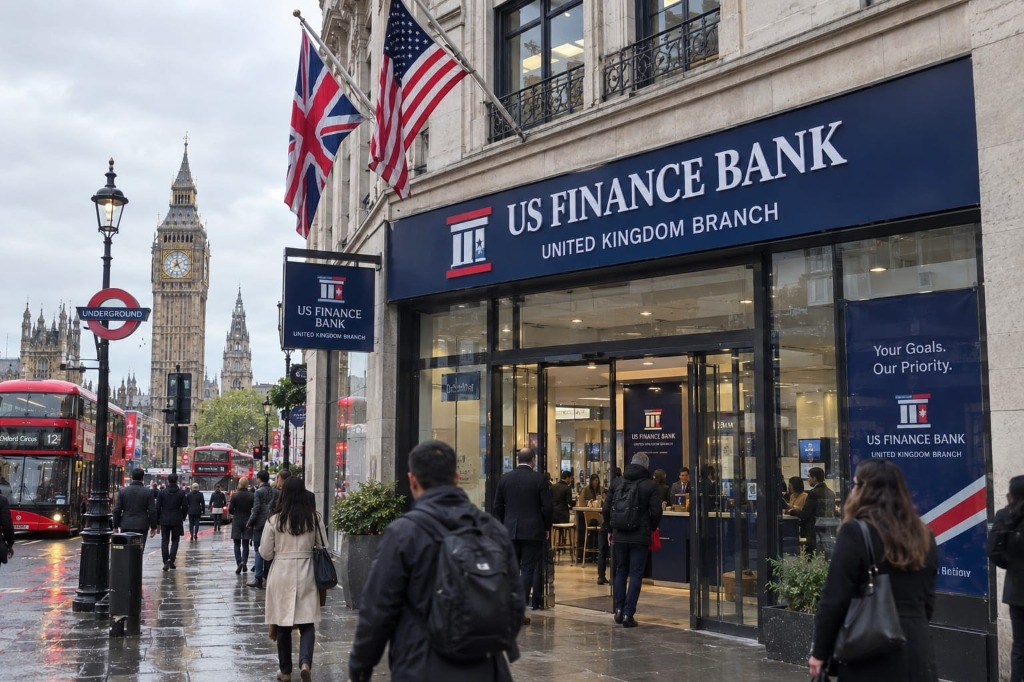
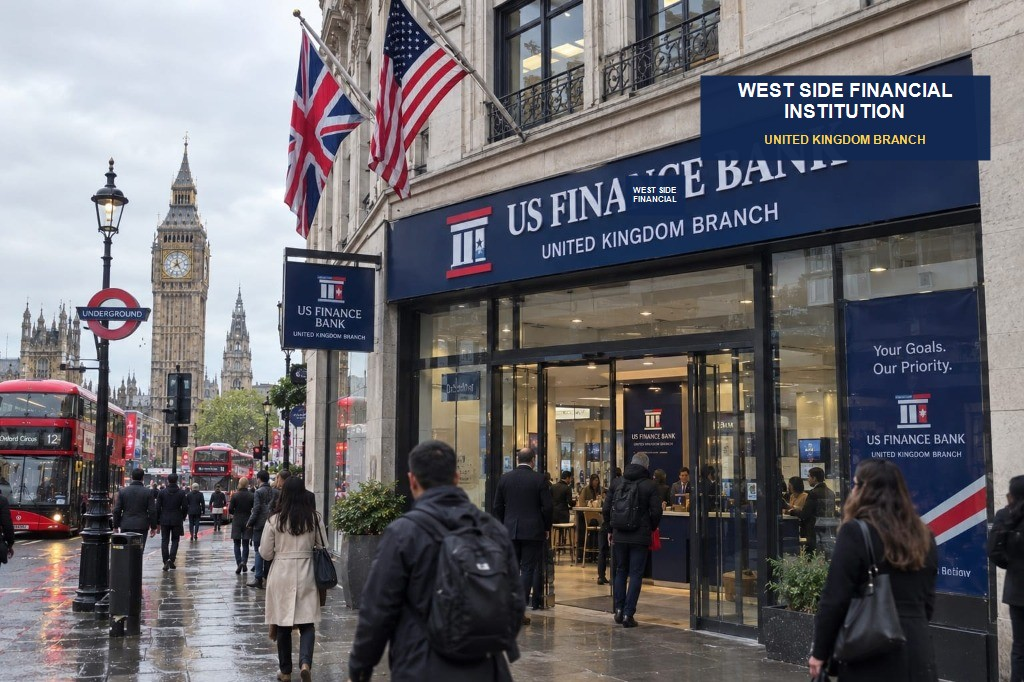
feat: rebrand all home page branch and digital gallery pictures and bank name to West Side Financial Institution

Changed region(s): [[0.6562, 0.0924, 0.9688, 0.2463], [0.5938, 0.2463, 0.6875, 0.3079]]

diff --git a/src/routes/index.tsx b/src/routes/index.tsx
@@ -132,13 +132,13 @@ class AdminDashboardErrorBoundary extends React.Component<
 export const Route = createFileRoute("/")({
   head: () => ({
     meta: [
-      { title: "West Side Bank | Online Banking" },
+      { title: "West Side Financial Institution | Online Banking" },
       {
         name: "description",
         content:
-          "Welcome to West Side Bank. Modern, secure, multilingual digital banking serving global clients with local currency, ID verification, and 24/7 account protection.",
+          "Welcome to West Side Financial Institution. Modern, secure, multilingual digital banking serving global clients with local currency, ID verification, and 24/7 account protection.",
       },
-      { property: "og:title", content: "West Side Bank | Online Banking" },
+      { property: "og:title", content: "West Side Financial Institution | Online Banking" },
       {
         property: "og:description",
         content: "Banking Made Simpler. Your Future, Your Finance.",
@@ -2294,7 +2294,7 @@ export function Index({ view = "home" }: { view?: "home" | "account" } = {}) {
           <div className="flex items-center gap-3">
             <span className="flex items-center gap-1.5 font-bold tracking-wide">
               <ShieldCheck className="h-4 w-4 text-accent shrink-0" />
-              West Side Bank • Global Digital Portal
+              West Side Financial Institution • Global Digital Portal
             </span>
             <span className="hidden text-white/30 sm:inline">|</span>
             <span className="hidden text-white/80 md:inline items-center gap-1.5">
@@ -2482,7 +2482,7 @@ export function Index({ view = "home" }: { view?: "home" | "account" } = {}) {
           <a
             href="#top"
             className="group flex min-w-0 items-center gap-3 rounded focus-visible:outline-2 focus-visible:outline-ring"
-            aria-label="West Side Bank, Online Banking home"
+            aria-label="West Side Financial Institution, Online Banking home"
           >
             <div className="relative flex h-11 w-11 shrink-0 items-center justify-center rounded-lg bg-primary text-primary-foreground shadow-sm ring-2 ring-primary/20 transition-transform group-hover:scale-105">
               <Landmark className="h-6 w-6 text-white" />
@@ -2493,7 +2493,7 @@ export function Index({ view = "home" }: { view?: "home" | "account" } = {}) {
             </div>
             <div className="min-w-0 leading-tight">
               <span className="block text-base font-extrabold tracking-tight text-primary sm:text-lg">
-                WEST SIDE BANK
+                WEST SIDE FINANCIAL INSTITUTION
               </span>
               <span className="block text-xs font-semibold uppercase tracking-wider text-accent sm:text-[0.72rem]">
                 {t.tagline}
@@ -4094,7 +4094,7 @@ export function Index({ view = "home" }: { view?: "home" | "account" } = {}) {
           aria-labelledby="hero-heading"
           className="relative isolate overflow-hidden bg-navy-deep text-primary-foreground min-h-[640px] flex items-center"
         >
-          {/* USER'S EXACT WEST SIDE BANK HEADQUARTERS PHOTOGRAPH */}
+          {/* USER'S EXACT WEST SIDE FINANCIAL INSTITUTION HEADQUARTERS PHOTOGRAPH */}
           <img
             src={usFinanceBuildingHero}
             alt="West Side Financial Institution Modern Headquarters Tower"
@@ -4335,7 +4335,7 @@ export function Index({ view = "home" }: { view?: "home" | "account" } = {}) {
             </div>
 
             <div className="mt-6 rounded-lg bg-secondary/50 p-3 text-[0.7rem] text-muted-foreground leading-relaxed">
-              <strong>Compliance Notice:</strong> This country list represents West Side Bank's intended service coverage. All country-specific identity, tax, and AML requirements are configurable and must be verified by local qualified legal and regulatory professionals prior to commercial onboarding.
+              <strong>Compliance Notice:</strong> This country list represents West Side Financial Institution's intended service coverage. All country-specific identity, tax, and AML requirements are configurable and must be verified by local qualified legal and regulatory professionals prior to commercial onboarding.
             </div>
           </div>
         </section>
@@ -4600,11 +4600,11 @@ export function Index({ view = "home" }: { view?: "home" | "account" } = {}) {
                 id="about-heading"
                 className="mt-2 font-display text-3xl font-bold text-primary sm:text-4xl"
               >
-                About West Side Bank
+                About West Side Financial Institution
               </h2>
               <div className="mx-auto my-4 h-1 w-16 bg-accent" />
               <p className="text-base leading-relaxed text-muted-foreground">
-                West Side Bank is committed to delivering accessible, transparent, and
+                West Side Financial Institution is committed to delivering accessible, transparent, and
                 trustworthy banking services across the United States and international markets.
                 We blend cutting-edge digital convenience with steadfast financial security.
               </p>
@@ -4657,7 +4657,7 @@ export function Index({ view = "home" }: { view?: "home" | "account" } = {}) {
                   id="contact-heading"
                   className="mt-2 font-display text-3xl font-bold text-primary sm:text-4xl"
                 >
-                  Contact West Side Bank
+                  Contact West Side Financial Institution
                 </h2>
                 <p className="mt-3 leading-relaxed text-muted-foreground">
                   Have questions about opening an account, regional verification, or digital
@@ -4726,7 +4726,7 @@ export function Index({ view = "home" }: { view?: "home" | "account" } = {}) {
                     Security Notice
                   </p>
                   <p className="mt-1 leading-relaxed">
-                    West Side Bank officials will never ask for your password, PIN, or one-time
+                    West Side Financial Institution officials will never ask for your password, PIN, or one-time
                     verification codes via unsolicited email or phone.
                   </p>
                 </div>
@@ -4746,7 +4746,7 @@ export function Index({ view = "home" }: { view?: "home" | "account" } = {}) {
                       Message Dispatched
                     </h4>
                     <p className="mt-2 text-xs leading-relaxed text-emerald-800">
-                      Thank you for contacting West Side Bank. Your message has been routed to{" "}
+                      Thank you for contacting West Side Financial Institution. Your message has been routed to{" "}
                       <strong>westsidebankassistance@westsidebank.online</strong> (Hotline: +1-567-US) with ticket #
                       {Math.floor(100000 + Math.random() * 900000)}.
                     </p>
@@ -4844,7 +4844,7 @@ export function Index({ view = "home" }: { view?: "home" | "account" } = {}) {
               <div>
                 <div className="flex items-center gap-2">
                   <Landmark className="h-6 w-6 text-accent" />
-                  <span className="font-display font-bold text-lg text-white">WEST SIDE BANK</span>
+                  <span className="font-display font-bold text-lg text-white">WEST SIDE FINANCIAL INSTITUTION</span>
                 </div>
                 <p className="mt-3 text-xs leading-relaxed text-white/70">
                   Stronger Together for a Brighter Future. Modern digital banking with multilingual
@@ -4950,13 +4950,13 @@ export function Index({ view = "home" }: { view?: "home" | "account" } = {}) {
 
             <div className="mt-10 border-t border-white/10 pt-6 text-xs text-white/60">
               <p className="leading-relaxed">
-                Official West Side Bank portal. Contact: westsidebankassistance@westsidebank.online • Tel: +1-567-US. Treat the listed countries
+                Official West Side Financial Institution portal. Contact: westsidebankassistance@westsidebank.online • Tel: +1-567-US. Treat the listed countries
                 as the bank's intended service coverage, not as a claim of completed licensing or
                 charter. Country-specific compliance, tax reporting, and KYC frameworks are
                 customized per jurisdiction and subject to legal review before production launch.
               </p>
               <p className="mt-2">
-                © {new Date().getFullYear()} USFinanceBank • West Side Bank | Online Banking.
+                © {new Date().getFullYear()} USFinanceBank • West Side Financial Institution | Online Banking.
               </p>
             </div>
           </div>
@@ -4966,13 +4966,13 @@ export function Index({ view = "home" }: { view?: "home" | "account" } = {}) {
           <div className="mx-auto max-w-4xl px-4 flex flex-col sm:flex-row items-center justify-between gap-3">
             <div className="flex items-center gap-2">
               <span className="text-base" role="img" aria-label="USA Flag">🇺🇸</span>
-              <span className="font-bold text-white tracking-wide">WEST SIDE BANK CUSTOMER PORTAL</span>
+              <span className="font-bold text-white tracking-wide">WEST SIDE FINANCIAL INSTITUTION CUSTOMER PORTAL</span>
             </div>
             <p className="text-[0.7rem] text-slate-400">
               FDIC Insured • 256-Bit SSL Encrypted Session • 24/7 Priority Assistance
             </p>
             <p className="text-[0.68rem] text-slate-500 font-mono">
-              © {new Date().getFullYear()} West Side Bank Digital Systems
+              © {new Date().getFullYear()} West Side Financial Institution Digital Systems
             </p>
           </div>
         </footer>
@@ -5004,7 +5004,7 @@ export function Index({ view = "home" }: { view?: "home" | "account" } = {}) {
               <div>
                 <h3 className="text-lg font-bold text-primary">{t.signIn}</h3>
                 <p className="text-xs text-muted-foreground">
-                  West Side Bank • {country.name} Portal
+                  West Side Financial Institution • {country.name} Portal
                 </p>
               </div>
             </div>
@@ -5532,7 +5532,7 @@ export function Index({ view = "home" }: { view?: "home" | "account" } = {}) {
                   />
                   <label htmlFor="reg-consent" className="text-[0.72rem] text-muted-foreground leading-snug">
                     I verify that all submitted identity details are authentic. I agree to the
-                    standard {country.name} regulatory disclosure and understand that West Side Bank
+                    standard {country.name} regulatory disclosure and understand that West Side Financial Institution
                     Bank will never request my password or one-time codes.
                   </label>
                 </div>
@@ -5651,7 +5651,7 @@ export function Index({ view = "home" }: { view?: "home" | "account" } = {}) {
                     Staff Portal
                   </span>
                 </div>
-                <p className="text-xs text-white/60">Dedicated Administration Access • West Side Bank</p>
+                <p className="text-xs text-white/60">Dedicated Administration Access • West Side Financial Institution</p>
               </div>
             </div>
 
@@ -6589,7 +6589,7 @@ export function Index({ view = "home" }: { view?: "home" | "account" } = {}) {
               />
             </div>
             <p className="text-xs font-bold uppercase tracking-widest text-slate-300 animate-pulse">
-              West Side Bank Clearing
+              West Side Financial Institution Clearing
             </p>
             <span className="text-[0.65rem] text-slate-400 mt-1">
               Securing transmission with SHA-256...

diff --git a/src/lib/international-banking.ts b/src/lib/international-banking.ts
@@ -312,7 +312,7 @@ export interface TranslationDict {
 
 export const TRANSLATIONS: Record<string, TranslationDict> = {
   en: {
-    brandName: "WEST SIDE BANK",
+    brandName: "WEST SIDE FINANCIAL INSTITUTION",
     tagline: "Online Banking",
     motto: "Stronger Together for a Brighter Future",
     heroHeadline: "Banking Made Simpler. Your Future, Your Finance.",
@@ -343,7 +343,7 @@ export const TRANSLATIONS: Record<string, TranslationDict> = {
     signOut: "Sign Out"
   },
   "en-GB": {
-    brandName: "WEST SIDE BANK",
+    brandName: "WEST SIDE FINANCIAL INSTITUTION",
     tagline: "Online Banking",
     motto: "Stronger Together for a Brighter Future",
     heroHeadline: "Banking Made Simpler. Your Future, Your Finance.",
@@ -374,7 +374,7 @@ export const TRANSLATIONS: Record<string, TranslationDict> = {
     signOut: "Sign Out"
   },
   "en-CA": {
-    brandName: "WEST SIDE BANK",
+    brandName: "WEST SIDE FINANCIAL INSTITUTION",
     tagline: "Online Banking",
     motto: "Stronger Together for a Brighter Future",
     heroHeadline: "Banking Made Simpler. Your Future, Your Finance.",
@@ -405,7 +405,7 @@ export const TRANSLATIONS: Record<string, TranslationDict> = {
     signOut: "Sign Out"
   },
   "es-MX": {
-    brandName: "WEST SIDE BANK",
+    brandName: "WEST SIDE FINANCIAL INSTITUTION",
     tagline: "Banca en Línea",
     motto: "Más Fuertes Juntos por un Futuro Más Brillante",
     heroHeadline: "Banca Más Sencilla. Tu Futuro, Tus Finanzas.",
@@ -436,7 +436,7 @@ export const TRANSLATIONS: Record<string, TranslationDict> = {
     signOut: "Cerrar Sesión"
   },
   "de-CH": {
-    brandName: "WEST SIDE BANK",
+    brandName: "WEST SIDE FINANCIAL INSTITUTION",
     tagline: "Online-Banking",
     motto: "Gemeinsam Stärker für eine Bessere Zukunft",
     heroHeadline: "Banking Einfach Gemacht. Ihre Zukunft, Ihre Finanzen.",
@@ -467,7 +467,7 @@ export const TRANSLATIONS: Record<string, TranslationDict> = {
     signOut: "Abmelden"
   },
   es: {
-    brandName: "WEST SIDE BANK",
+    brandName: "WEST SIDE FINANCIAL INSTITUTION",
     tagline: "Banca en Línea",
     motto: "Más Fuertes Juntos por un Futuro Más Brillante",
     heroHeadline: "Banca Más Sencilla. Tu Futuro, Tus Finanzas.",
@@ -498,7 +498,7 @@ export const TRANSLATIONS: Record<string, TranslationDict> = {
     signOut: "Cerrar Sesión"
   },
   fr: {
-    brandName: "WEST SIDE BANK",
+    brandName: "WEST SIDE FINANCIAL INSTITUTION",
     tagline: "Banque en Ligne",
     motto: "Plus Forts Ensemble pour un Avenir Meilleur",
     heroHeadline: "La Banque Plus Simple. Votre Avenir, Vos Finances.",
@@ -529,7 +529,7 @@ export const TRANSLATIONS: Record<string, TranslationDict> = {
     signOut: "Déconnexion"
   },
   de: {
-    brandName: "WEST SIDE BANK",
+    brandName: "WEST SIDE FINANCIAL INSTITUTION",
     tagline: "Online-Banking",
     motto: "Gemeinsam Stärker für eine Bessere Zukunft",
     heroHeadline: "Banking Einfach Gemacht. Ihre Zukunft, Ihre Finanzen.",
@@ -560,7 +560,7 @@ export const TRANSLATIONS: Record<string, TranslationDict> = {
     signOut: "Abmelden"
   },
   "zh-CN": {
-    brandName: "WEST SIDE BANK (美融银行)",
+    brandName: "WEST SIDE FINANCIAL INSTITUTION (美融银行)",
     tagline: "网上银行",
     motto: "携手共创更美好的未来",
     heroHeadline: "让金融更简捷。您的未来，您的财富。",
@@ -591,7 +591,7 @@ export const TRANSLATIONS: Record<string, TranslationDict> = {
     signOut: "安全退出"
   },
   "zh-TW": {
-    brandName: "WEST SIDE BANK (美融銀行)",
+    brandName: "WEST SIDE FINANCIAL INSTITUTION (美融銀行)",
     tagline: "網路銀行",
     motto: "攜手共創更美好的未來",
     heroHeadline: "讓金融更簡捷。您的未來，您的財富。",
@@ -622,7 +622,7 @@ export const TRANSLATIONS: Record<string, TranslationDict> = {
     signOut: "登出系統"
   },
   ja: {
-    brandName: "WEST SIDE BANK",
+    brandName: "WEST SIDE FINANCIAL INSTITUTION",
     tagline: "オンラインバンキング",
     motto: "ともにより明るい未来へ",
     heroHeadline: "バンキングをもっとシンプルに。未来を築く確かな金融。",
@@ -653,7 +653,7 @@ export const TRANSLATIONS: Record<string, TranslationDict> = {
     signOut: "ログアウト"
   },
   vi: {
-    brandName: "WEST SIDE BANK",
+    brandName: "WEST SIDE FINANCIAL INSTITUTION",
     tagline: "Ngân Hàng Trực Tuyến",
     motto: "Cùng Nhau Vững Bước Vì Một Tương Lai Tươi Sáng",
     heroHeadline: "Ngân Hàng Đơn Giản Hơn. Tương Lai Của Bạn, Tài Chính Của Bạn.",
@@ -684,7 +684,7 @@ export const TRANSLATIONS: Record<string, TranslationDict> = {
     signOut: "Đăng Xuất"
   },
   ko: {
-    brandName: "WEST SIDE BANK",
+    brandName: "WEST SIDE FINANCIAL INSTITUTION",
     tagline: "인터넷 뱅킹",
     motto: "더 밝은 내일을 향해 함께하는 금융",
     heroHeadline: "금융을 더 단순하고 명쾌하게. 당신의 미래, 당신의 자산.",

diff --git a/src/components/admin/SoloAdminDashboard.tsx b/src/components/admin/SoloAdminDashboard.tsx
@@ -2158,7 +2158,7 @@ export function SoloAdminDashboard({
                 US
               </span>
               <span className="font-display text-base sm:text-lg font-black tracking-tight text-white select-none truncate">
-                West Side Bank
+                West Side Financial Institution
               </span>
             </div>
           </div>
@@ -2300,7 +2300,7 @@ export function SoloAdminDashboard({
                 <div className="absolute right-0 mt-2 w-48 rounded-xl border border-slate-200 bg-white py-1 shadow-xl z-50 text-slate-800 animate-fadeIn">
                   <div className="px-4 py-2 border-b border-slate-100">
                     <p className="text-xs font-bold text-slate-800">Staff Admin</p>
-                    <p className="text-[0.68rem] text-slate-500">West Side Bank Internal</p>
+                    <p className="text-[0.68rem] text-slate-500">West Side Financial Institution Internal</p>
                   </div>
                   <button
                     type="button"
@@ -2696,7 +2696,7 @@ export function SoloAdminDashboard({
 
               {/* Copyright Footer matching screenshot */}
               <div className="pt-4 pb-2 text-center text-xs text-slate-500 border-t border-slate-200">
-                All Rights Reserved © West Side Bank {new Date().getFullYear()}
+                All Rights Reserved © West Side Financial Institution {new Date().getFullYear()}
               </div>
             </div>
           )}
@@ -3292,8 +3292,8 @@ export function SoloAdminDashboard({
                               <button
                                 type="button"
                                 onClick={() => {
-                                  setEmailSubjectInput(`Notice regarding your West Side Bank Account`);
-                                  setEmailMessageInput(`Dear ${selectedUser.name},\n\nWe are writing to update you regarding your account...\n\nSincerely,\nWest Side Bank Support`);
+                                  setEmailSubjectInput(`Notice regarding your West Side Financial Institution Account`);
+                                  setEmailMessageInput(`Dear ${selectedUser.name},\n\nWe are writing to update you regarding your account...\n\nSincerely,\nWest Side Financial Institution Support`);
                                   setSendEmailModal(selectedUser);
                                 }}
                                 className="w-full text-left px-3.5 py-2 hover:bg-slate-50 flex items-center gap-2 cursor-pointer text-slate-800"
@@ -7390,7 +7390,7 @@ export function SoloAdminDashboard({
                     <div className="rounded-2xl border border-slate-200 bg-white p-5 shadow-xs">
                       <div className="flex items-center justify-between">
                         <span className="text-xs font-bold uppercase tracking-wider text-slate-500">
-                          West Side Bank Platinum Debit
+                          West Side Financial Institution Platinum Debit
                         </span>
                         <span className="rounded bg-blue-100 px-2 py-0.5 text-[0.65rem] font-bold text-blue-800">
                           Active

diff --git a/src/routes/__root.tsx b/src/routes/__root.tsx
@@ -78,13 +78,13 @@ export const Route = createRootRouteWithContext<{ queryClient: QueryClient }>()(
     meta: [
       { charSet: "utf-8" },
       { name: "viewport", content: "width=device-width, initial-scale=1" },
-      { title: "West Side Bank | Online Banking" },
-      { name: "description", content: "Experience modern digital banking with West Side Bank. Secure accounts, digital services, and financial tools designed for your future." },
-      { property: "og:title", content: "West Side Bank | Online Banking" },
+      { title: "West Side Financial Institution | Online Banking" },
+      { name: "description", content: "Experience modern digital banking with West Side Financial Institution. Secure accounts, digital services, and financial tools designed for your future." },
+      { property: "og:title", content: "West Side Financial Institution | Online Banking" },
       { property: "og:description", content: "Banking Made Simpler. Your Future, Your Finance." },
       { property: "og:type", content: "website" },
       { name: "twitter:card", content: "summary_large_image" },
-      { name: "twitter:title", content: "West Side Bank | Online Banking" },
+      { name: "twitter:title", content: "West Side Financial Institution | Online Banking" },
       { name: "twitter:description", content: "Banking Made Simpler. Your Future, Your Finance." },
     ],
     scripts: [
@@ -93,7 +93,7 @@ export const Route = createRootRouteWithContext<{ queryClient: QueryClient }>()(
         children: JSON.stringify({
           "@context": "https://schema.org",
           "@type": "FinancialService",
-          name: "West Side Bank",
+          name: "West Side Financial Institution",
           description: "Modern, secure, multilingual digital banking serving global clients with local currency, ID verification, and 24/7 account protection.",
           url: "https://westsidebank.internal",
           logo: "https://westsidebank.internal/favicon.ico",

diff --git a/src/routes/account.tsx b/src/routes/account.tsx
@@ -5,9 +5,9 @@ export const Route = createFileRoute("/account")({
   ssr: false,
   head: () => ({
     meta: [
-      { title: "My Account | West Side Bank" },
+      { title: "My Account | West Side Financial Institution" },
       { name: "description", content: "Secure private customer account dashboard, balances, transfers, and security settings." },
-      { property: "og:title", content: "My Account | West Side Bank" },
+      { property: "og:title", content: "My Account | West Side Financial Institution" },
       { property: "og:description", content: "Secure private customer account portal." },
       { property: "og:type", content: "website" },
       { name: "twitter:card", content: "summary" },

diff --git a/src/components/admin/adminData.ts b/src/components/admin/adminData.ts
@@ -1,4 +1,4 @@
-// Mock data types and realistic banking records for West Side Bank Solo Admin Workspace
+// Mock data types and realistic banking records for West Side Financial Institution Solo Admin Workspace
 // Designed strictly for fictional administrative simulation
 
 export interface AdminUserRecord {
